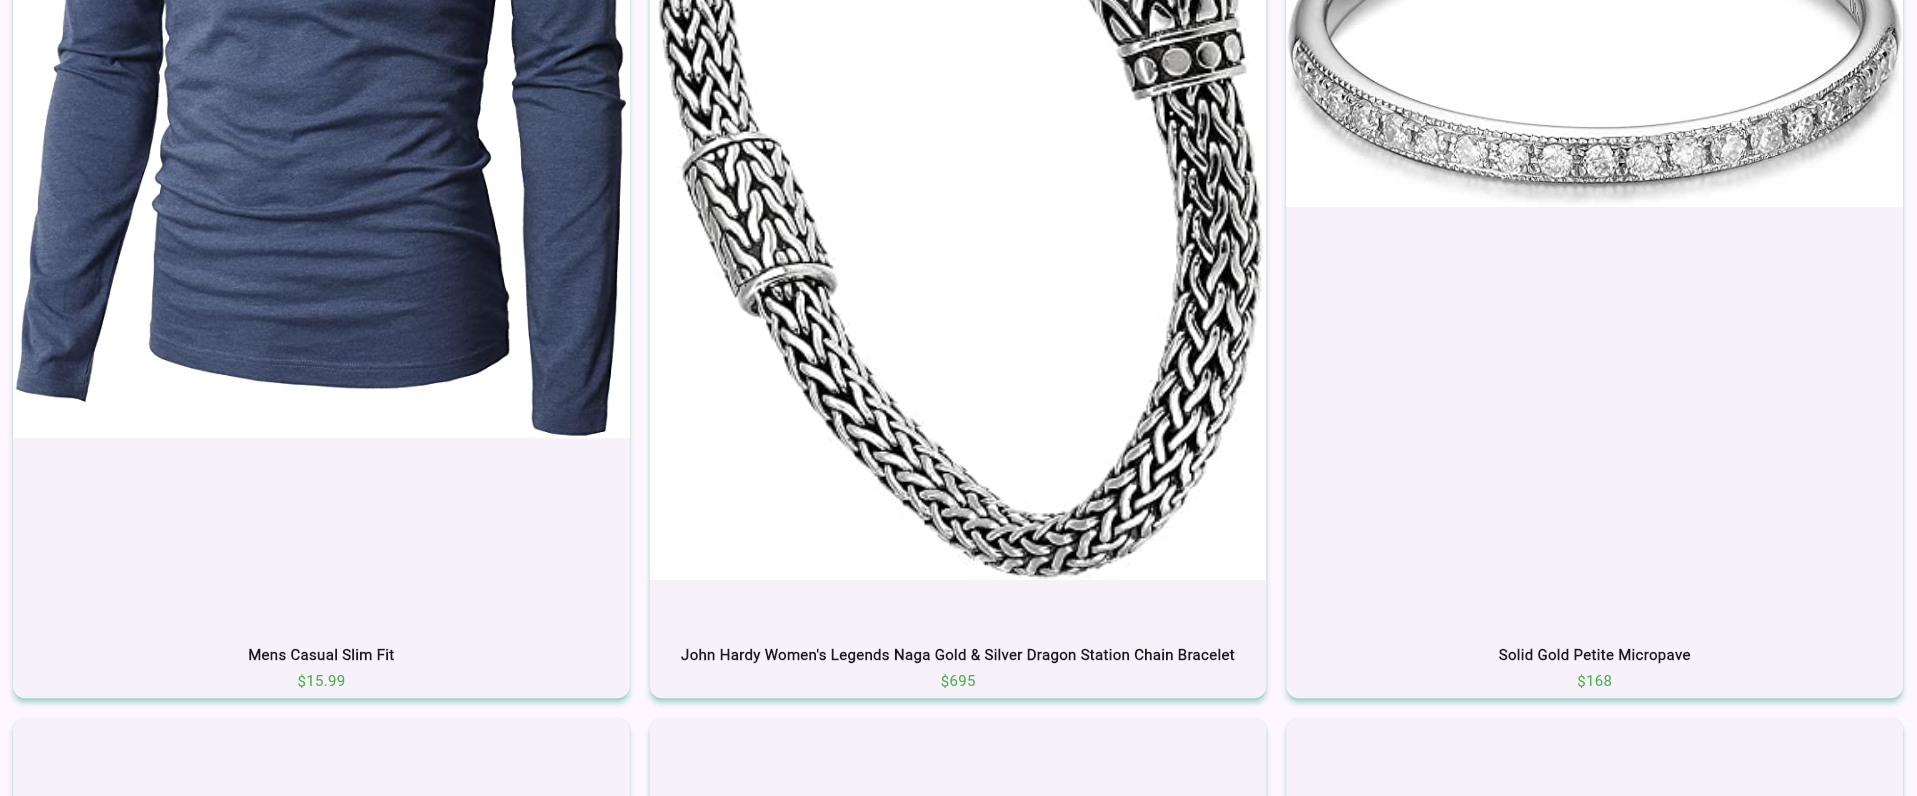
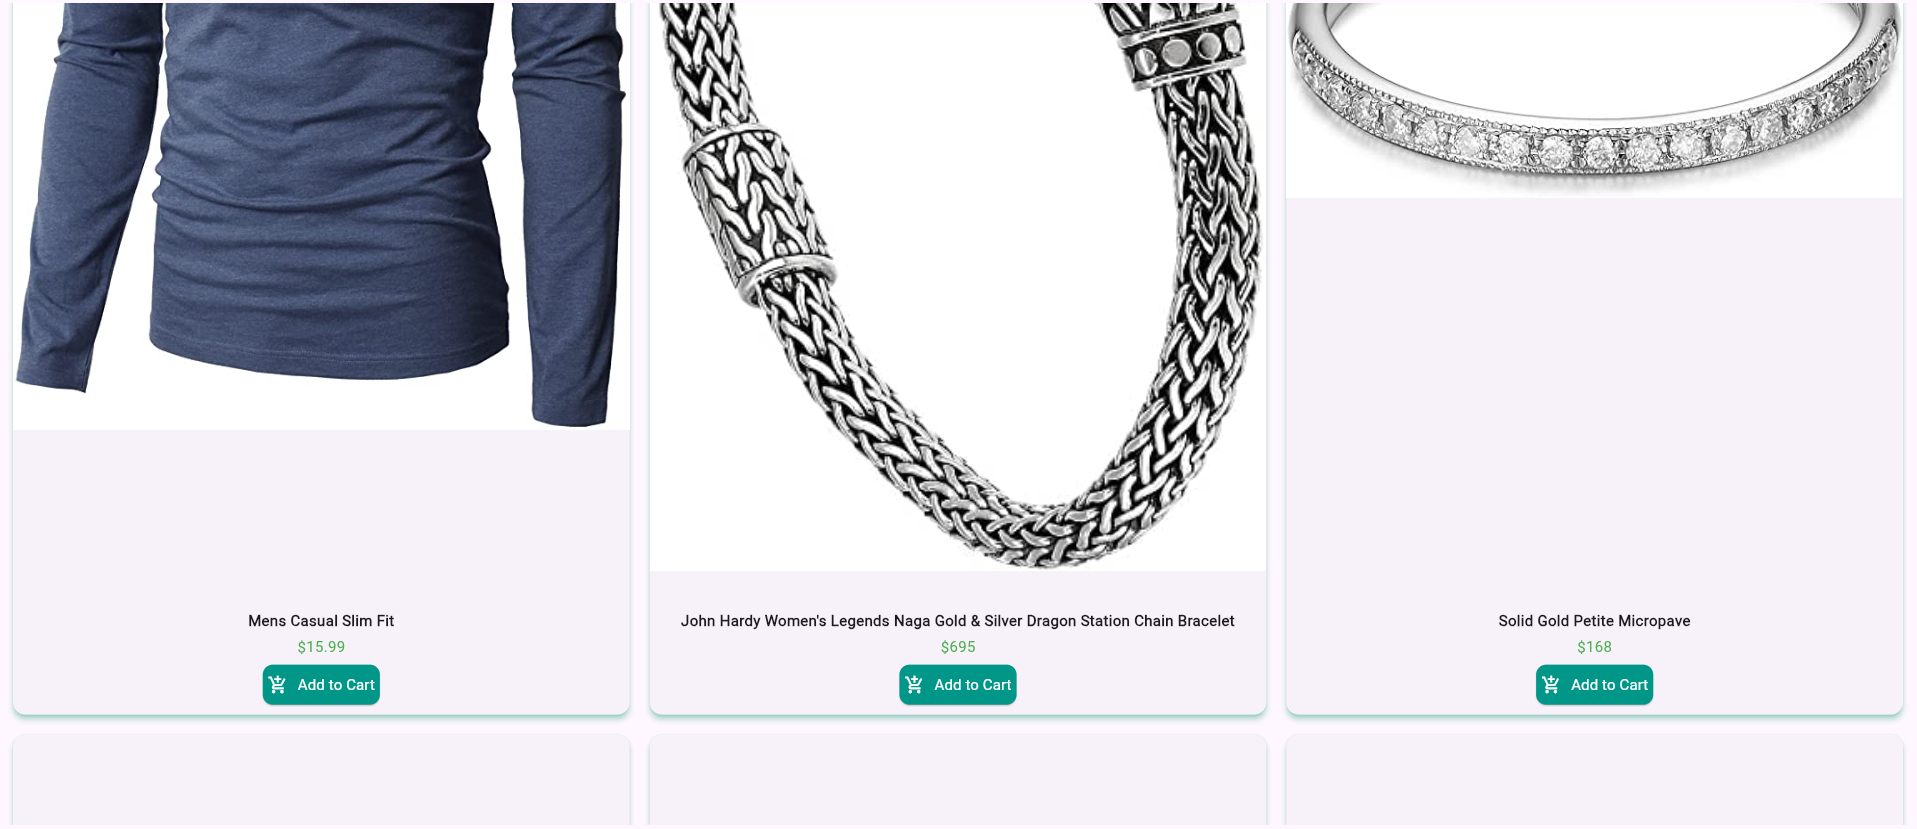
product card added

Changed region(s): [[0.0, 0.0, 1.0, 0.9045]]

diff --git a/lib/home_page.dart b/lib/home_page.dart
@@ -2,6 +2,7 @@ import 'dart:convert';
 import 'package:flutter/material.dart';
 import 'package:http/http.dart' as http;
 import 'package:cached_network_image/cached_network_image.dart';
+import 'product_card.dart';
 
 class ProductListPage extends StatefulWidget {
   const ProductListPage({super.key});
@@ -12,6 +13,7 @@ class ProductListPage extends StatefulWidget {
 
 class _ProductListPageState extends State<ProductListPage> {
   List<dynamic> _products = [];
+  List<dynamic> _cartItems = [];
   bool _isLoading = true;
 
   @override
@@ -40,6 +42,15 @@ class _ProductListPageState extends State<ProductListPage> {
     }
   }
 
+  void _addToCart(dynamic product) {
+    setState(() {
+      _cartItems.add(product);
+    });
+    ScaffoldMessenger.of(context).showSnackBar(
+      SnackBar(content: Text('Added to cart: ${product['title']}')),
+    );
+  }
+
   @override
   Widget build(BuildContext context) {
     return Scaffold(
@@ -61,63 +72,13 @@ class _ProductListPageState extends State<ProductListPage> {
                 ),
                 itemBuilder: (context, index) {
                   final product = _products[index];
-                  return ProductCard(product: product);
+                  return ProductCard(
+                    product: product,
+                    onAddToCart: () => _addToCart(product),
+                  );
                 },
               ),
             ),
-    );
-  }
-}
-
-class ProductCard extends StatelessWidget {
-  final dynamic product;
-
-  const ProductCard({super.key, required this.product});
-
-  @override
-  Widget build(BuildContext context) {
-    return Card(
-      elevation: 4,
-      shadowColor: Colors.tealAccent,
-      shape: RoundedRectangleBorder(
-        borderRadius: BorderRadius.circular(10),
-      ),
-      child: Column(
-        children: [
-          Expanded(
-            child: CachedNetworkImage(
-              imageUrl: product['image'],
-              placeholder: (context, url) =>
-                  const Center(child: CircularProgressIndicator()),
-              errorWidget: (context, url, error) =>
-                  const Icon(Icons.error_outline),
-              fit: BoxFit.contain,
-            ),
-          ),
-          Padding(
-            padding: const EdgeInsets.symmetric(horizontal: 6.0, vertical: 4.0),
-            child: Text(
-              product['title'],
-              maxLines: 2,
-              overflow: TextOverflow.ellipsis,
-              style: const TextStyle(
-                fontWeight: FontWeight.bold,
-                fontSize: 12,
-              ),
-              textAlign: TextAlign.center,
-            ),
-          ),
-          Text(
-            '\$${product['price']}',
-            style: const TextStyle(
-              fontSize: 12,
-              color: Colors.green,
-              fontWeight: FontWeight.w500,
-            ),
-          ),
-          const SizedBox(height: 6),
-        ],
-      ),
     );
   }
 }

diff --git a/lib/product_card.dart b/lib/product_card.dart
@@ -1,0 +1,75 @@
+import 'package:flutter/material.dart';
+import 'package:cached_network_image/cached_network_image.dart';
+
+class ProductCard extends StatelessWidget {
+  final dynamic product;
+  final VoidCallback onAddToCart;
+
+  const ProductCard({
+    super.key,
+    required this.product,
+    required this.onAddToCart,
+  });
+
+  @override
+  Widget build(BuildContext context) {
+    return Card(
+      elevation: 4,
+      shadowColor: Colors.tealAccent,
+      shape: RoundedRectangleBorder(borderRadius: BorderRadius.circular(10)),
+      child: Column(
+        children: [
+          Expanded(
+            child: CachedNetworkImage(
+              imageUrl: product['image'],
+              placeholder: (context, url) =>
+                  const Center(child: CircularProgressIndicator()),
+              errorWidget: (context, url, error) =>
+                  const Icon(Icons.error_outline),
+              fit: BoxFit.contain,
+            ),
+          ),
+          Padding(
+            padding: const EdgeInsets.symmetric(horizontal: 6, vertical: 4),
+            child: Text(
+              product['title'],
+              maxLines: 2,
+              overflow: TextOverflow.ellipsis,
+              textAlign: TextAlign.center,
+              style: const TextStyle(
+                fontSize: 12,
+                fontWeight: FontWeight.bold,
+              ),
+            ),
+          ),
+          Text(
+            '\$${product['price']}',
+            style: const TextStyle(
+              fontSize: 12,
+              color: Colors.green,
+              fontWeight: FontWeight.w500,
+            ),
+          ),
+          const SizedBox(height: 6),
+          Padding(
+            padding: const EdgeInsets.symmetric(horizontal: 6),
+            child: ElevatedButton.icon(
+              onPressed: onAddToCart,
+              icon: const Icon(Icons.add_shopping_cart, size: 16),
+              label: const Text("Add to Cart", style: TextStyle(fontSize: 12)),
+              style: ElevatedButton.styleFrom(
+                backgroundColor: Colors.teal,
+                foregroundColor: Colors.white,
+                padding: const EdgeInsets.symmetric(horizontal: 4, vertical: 4),
+                shape: RoundedRectangleBorder(
+                  borderRadius: BorderRadius.circular(8),
+                ),
+              ),
+            ),
+          ),
+          const SizedBox(height: 8),
+        ],
+      ),
+    );
+  }
+}
